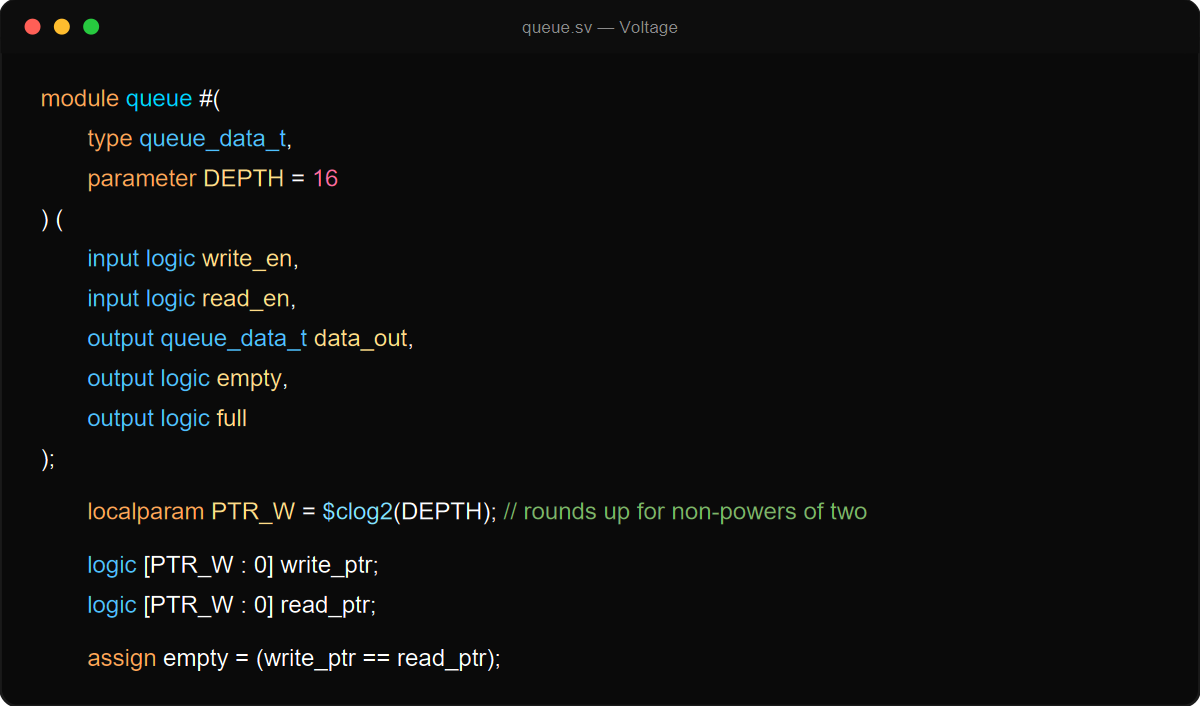
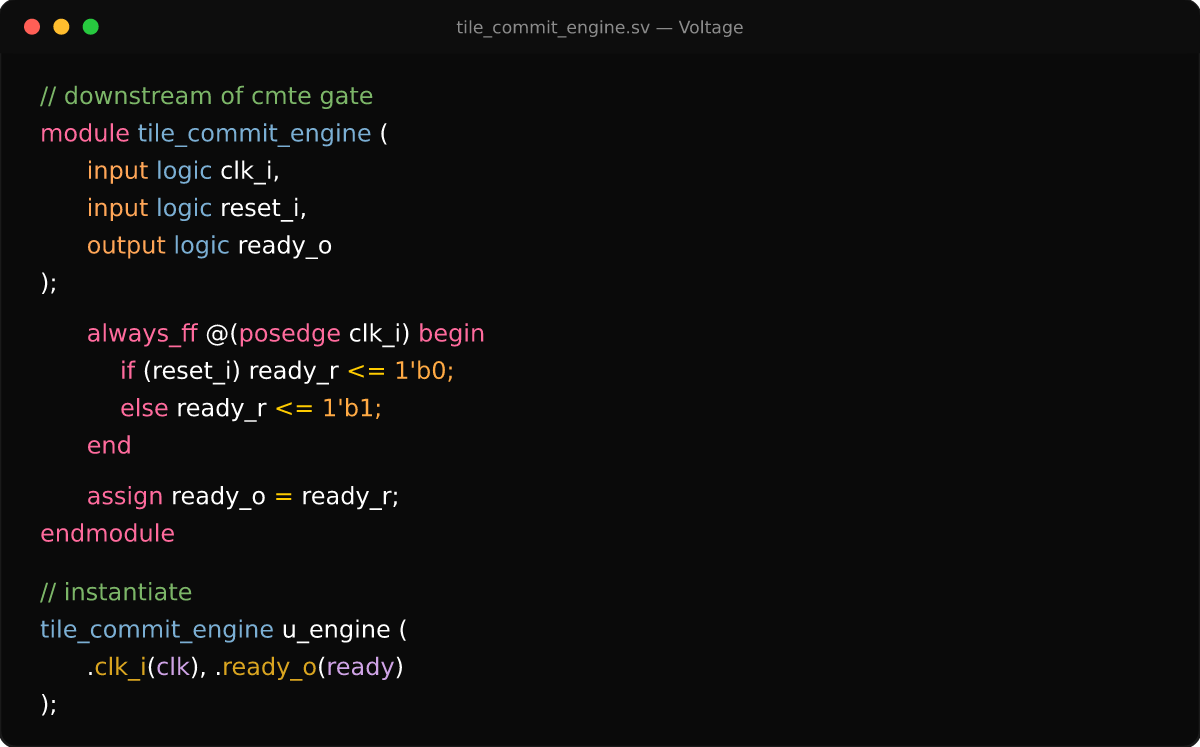
Release v1.1.0: SystemVerilog color overhaul
Types and module names now share a Carolina-blue tone, directions get
their own warm orange, and modifiers are orchid — replacing the old
scheme where directions, user-defined types, and port signal names all
rendered as the same orange. Module instantiations get a dedicated
trio (white instance names, dark-goldenrod port names, lavender wired
signals) so a .port(signal) binding reads as two colors instead of one
blur. Bit-select brackets no longer color their numbers/operators,
avoiding competition with real numeric literals elsewhere in the line.

Also bundles the previously-uncommitted JSON language support and the
settled-on light-orange markdown code color from the prior session.

diff --git a/docs/palette.md b/docs/palette.md
@@ -4,7 +4,7 @@
 |---|---|---|
 | ![#00ff41](../img/swatches/00ff41.svg) | Strings | `#00ff41` |
 | ![#ff6b9d](../img/swatches/ff6b9d.svg) | Numbers / control flow (`if`, `for`, etc.) / struct & signal member access | `#ff6b9d` |
-| ![#4fc1ff](../img/swatches/4fc1ff.svg) | Types (`size_t`, classes, SV `logic`/`input`) | `#4fc1ff` |
+| ![#4fc1ff](../img/swatches/4fc1ff.svg) | Types (`size_t`, classes) | `#4fc1ff` |
 | ![#ffa657](../img/swatches/ffa657.svg) | Declaration keywords (`const`, `int`, `void`) | `#ffa657` |
 | ![#00d4ff](../img/swatches/00d4ff.svg) | Function declarations | `#00d4ff` |
 | ![#82e2ff](../img/swatches/82e2ff.svg) | Function calls | `#82e2ff` |
@@ -24,9 +24,28 @@ Bracket pair colors cycle through:
 
 These colors are wired up via `editorBracketHighlight.foreground1-6` in the theme itself, but the vertical guide lines connecting bracket pairs are an editor setting, not a theme color, so they need `"editor.guides.bracketPairs": true` set by hand (see the main [README](../README.md#recommended-settings)).
 
+## SystemVerilog
+
+SystemVerilog gets its own token map rather than reusing the general-purpose one above, since the language's declaration/port/instantiation syntax doesn't map cleanly onto it.
+
+| | Element | Hex |
+|---|---|---|
+| ![#7bafd4](../img/swatches/7bafd4.svg) | Types (`logic`, `bit`, `int`, user-defined types) & module names | `#7bafd4` |
+| ![#ffa657](../img/swatches/ffa657.svg) | Port directions (`input`, `output`, `inout`) | `#ffa657` |
+| ![#da70d6](../img/swatches/da70d6.svg) | Modifiers (`signed`, `static`, `packed`, ...) & language constants | `#da70d6` |
+| ![#ff6b9d](../img/swatches/ff6b9d.svg) | Control flow (`always_ff`, `if`, `else`, `begin`/`end`, `assign`) | `#ff6b9d` |
+| ![#ffcc00](../img/swatches/ffcc00.svg) | Operators (`<=`, `&&`, `+`, ...) | `#ffcc00` |
+| ![#ffaa44](../img/swatches/ffaa44.svg) | Numeric literals (`1'b0`, `32'hDEADBEEF`) | `#ffaa44` |
+| ![#ffffff](../img/swatches/ffffff.svg) | Signals, port signal names, instance names | `#ffffff` |
+| ![#daa520](../img/swatches/daa520.svg) | Instantiated port names (`.clk_i(...)`) | `#daa520` |
+| ![#cfa3e6](../img/swatches/cfa3e6.svg) | Wired-in signals (`.clk_i(clk)`) | `#cfa3e6` |
+
+Numbers and operators inside bit-select brackets (e.g. `-1:0` in `[WORD_WIDTH-1:0]`) render as plain white rather than their usual colors, so index arithmetic doesn't compete visually with real numeric literals elsewhere in the code.
+
+Module instantiations get a dedicated trio so a `.port(signal)` binding reads as two distinct colors instead of one blur — the port name (dark goldenrod) and the wired-in signal (lavender) are deliberately different from every other token color in the file.
+
 ## Language-specific notes
 
 - **C/C++**: struct/object member access (e.g. `x` in `threadIdx.x`) is colored separately from the base identifier.
-- **SystemVerilog**: port declarations (`input`, `output`, `logic`) follow the type/parameter color scheme; struct field access matches the C struct-access color; plain signals default to white.
 - **Tcl**: commands match function color, variables are white, flags/options are orange, control keywords are pink-red.
 - **Python**: `and` / `or` / `not` in conditionals are gold as well (`#ffcc00`), matching enums/macros.

diff --git a/README.md b/README.md
@@ -40,7 +40,7 @@ Each tool gets its own top-level folder. The palette itself is documented once, 
 Grab the packaged extension from [Releases](https://github.com/VerdantLeaf/voltage-theme/releases) and install it with:
 
 ```
-code --install-extension voltage-theme-1.0.4.vsix
+code --install-extension voltage-theme-1.1.0.vsix
 ```
 
 Or install manually from the file: `Ctrl+Shift+P` → "Extensions: Install from VSIX..." → select the `.vsix`.
@@ -108,7 +108,7 @@ See [`docs/palette.md`](docs/palette.md) for the full color table.
 ## Language-specific notes
 
 - **C/C++**: struct/object member access (e.g. `x` in `threadIdx.x`) is colored separately from the base identifier.
-- **SystemVerilog**: port declarations (`input`, `output`, `logic`) follow the type/parameter color scheme; struct field access matches the C struct-access color; plain signals default to white.
+- **SystemVerilog**: types (`logic`, user-defined types) and module names share a Carolina-blue tone; `input`/`output`/`inout` get their own warm orange; modifiers (`signed`, `static`, etc.) are orchid. Module instantiations get their own trio: instance names are white, connected port names are dark goldenrod, and the wired-in signals are a soft lavender — so a `.port(signal)` binding reads as two distinct colors instead of one blur.
 - **Tcl**: commands match function color, variables are white, flags/options are orange, control keywords are pink-red.
 - **Python**: `and` / `or` / `not` in conditionals get their own gold color, matching enums/macros.
 

diff --git a/vscode/CHANGELOG.md b/vscode/CHANGELOG.md
@@ -1,5 +1,14 @@
 # Changelog
 
+## 1.1.0
+
+- SystemVerilog overhaul: types (`logic`, user-defined types) and module names now share a Carolina-blue tone, directions (`input`/`output`/`inout`) get their own warm orange, and modifiers (`signed`, `static`, `packed`, ...) are orchid — replacing the old scheme where directions, user-defined types, and port signal names all rendered as the same orange.
+- Module instantiations get a dedicated color trio: instance names are white, connected port names are dark goldenrod, and wired-in signals are a soft lavender, so a `.port(signal)` binding reads as two distinct colors instead of one blur.
+- Numbers and operators inside bit-select brackets (e.g. `-1:0` in `[WORD_WIDTH-1:0]`) now render as plain white instead of competing with real numeric literals and control operators elsewhere in the line.
+- Added SystemVerilog comment coloring (previously fell through to a generic default).
+- Added JSON language support (object keys, strings, numbers, and `true`/`false`/`null`).
+- Markdown inline code and fenced code blocks settled on light orange instead of orchid, so they read as raw code without colliding with language-constant coloring elsewhere.
+
 ## 1.0.4
 
 - Markdown inline code spans and fenced code blocks now use orchid instead of green, so they read as raw code rather than string literals (both in the editor and the preview pane).
